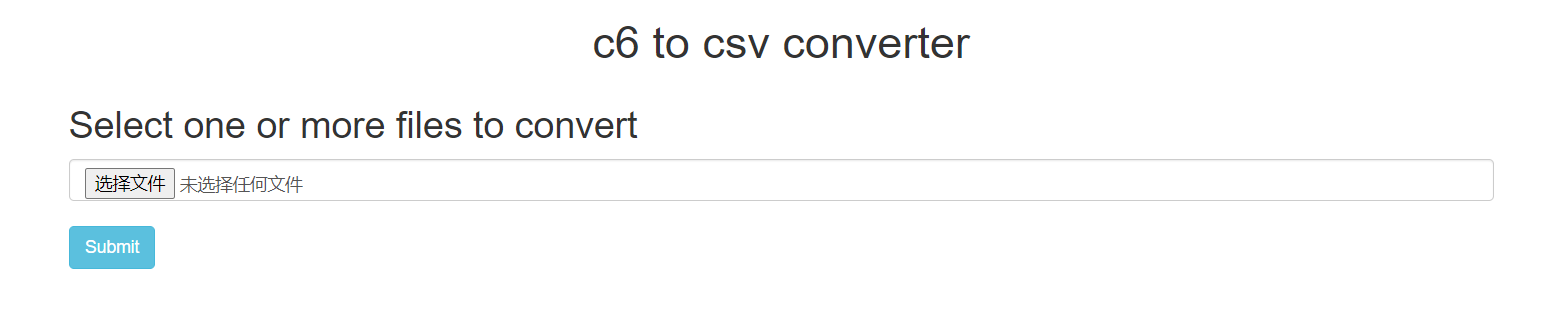
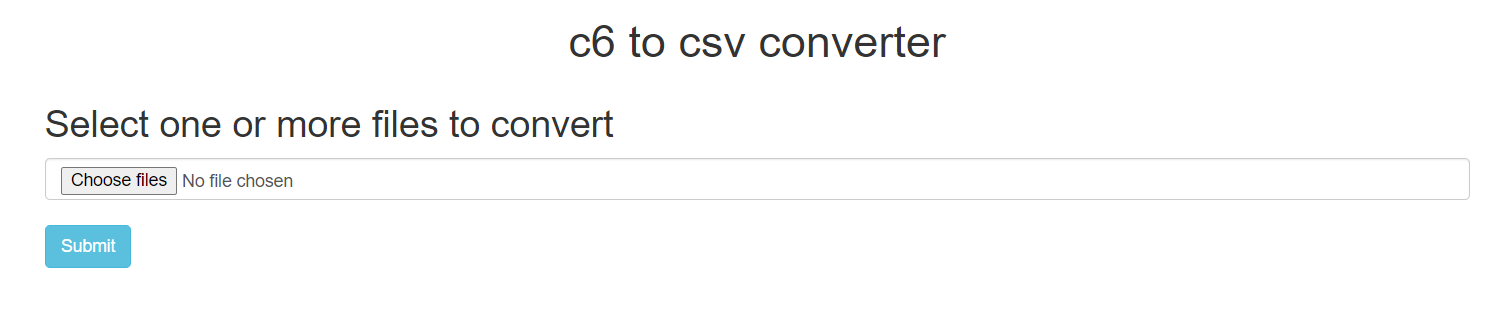
add ceotr images; add ceotr paragraph; font-family changes

Changed region(s): [[0.0311, 0.3123, 0.9649, 0.8517], [0.3735, 0.0568, 0.6225, 0.1987]]

diff --git a/src/routes/ceotr/+page.svelte b/src/routes/ceotr/+page.svelte
@@ -2,41 +2,40 @@
     import ProjectCard from "$lib/ProjectCard.svelte";
 
     import gliders from "$lib/assets/gliders.png";
+    import gliders1 from "$lib/assets/gliders-1.png";
+    import gliders2 from "$lib/assets/gliders-2.png";
+    import gliders3 from "$lib/assets/gliders-3.png";
+    import gliders4 from "$lib/assets/gliders-4.png";
+
     import c6 from "$lib/assets/c6.png";
-    import website from "$lib/assets/website.png";
+    import c61 from "$lib/assets/c6-1.png";
+
+    import web from "$lib/assets/web.png";
+    import web1 from "$lib/assets/web-1.png";
+    import web2 from "$lib/assets/web-2.png";
+    import web3 from "$lib/assets/web-3.png";
+
 </script>
 
 <div>
     <h1>CEOTR Projects</h1>
 
     <ProjectCard
-            title="Glider Website"
-            imgSet={[gliders,c6,website]}
-            description="Lorem ipsum dolor sit amet, consectetur adipiscing elit. Phasellus commodo hendrerit ipsum, ac porttitor ex
-        fermentum pharetra. Phasellus lobortis aliquam mauris. Quisque at interdum magna, sit amet mattis magna. Etiam
-        vel erat cursus, efficitur libero eget, vehicula arcu. Curabitur in nulla eleifend, placerat tortor vel, tempor
-        velit. Quisque mauris turpis, porttitor nec neque a, tempor suscipit dolor. Praesent laoreet est sed quam
-        rhoncus, quis suscipit nunc lobortis."
+            title="Glider Website (https://dev.ceotr.ca/gliders)"
+            imgSet={[gliders,gliders1,gliders2,gliders3,gliders4]}
+            description="The Glider Website is built by Svelte-kit and focus on visualizing and summarizing the data collected from gliders and displaying them on the map and the table. The main page comprises three parts: map, filter, and table. The map is a Leaflet component. It can show each mission's track and be distinguished by different colors. When the user hovers over the track,  the track will be highlighted and show summarized information. The table is sortable and shows detailed information. On the right side of the table, the eye button can control the show/hide for each track shown on the map, and the eye button on the table's header can simply show/hide all the tracks. The table is sorted by mission number by default, and the mission number is clickable. By clicking the mission number, the user will be directed to the individual mission page, which shows more detail. The filter bar can filter out the missions that the user wants. Select a tag (e.g. ID) and enter detail (e.g. ID that contains 44), and the filter option will display as a bubble. The map and table will reflect the changes by the filter's option."
     />
 
     <ProjectCard
-            title="C6 to CSV Converter"
-            imgSet=""
-            description="Lorem ipsum dolor sit amet, consectetur adipiscing elit. Phasellus commodo hendrerit ipsum, ac porttitor ex
-        fermentum pharetra. Phasellus lobortis aliquam mauris. Quisque at interdum magna, sit amet mattis magna. Etiam
-        vel erat cursus, efficitur libero eget, vehicula arcu. Curabitur in nulla eleifend, placerat tortor vel, tempor
-        velit. Quisque mauris turpis, porttitor nec neque a, tempor suscipit dolor. Praesent laoreet est sed quam
-        rhoncus, quis suscipit nunc lobortis."
+            title="C6 to CSV Converter (http://c6.ceotr.ca/)"
+            imgSet={[c6,c61]}
+            description="The C6 to CSV converter website is built by Flask, and the function is implemented by Python. The website can convert the C6 file (a file type output by lab instrument) to a CSV file. Include the technic like auto zip/unzip, table reformation, batch download, data sorting, file upload, etc."
     />
 
     <ProjectCard
-            title="MAPEL Website"
-            imgSet=""
-            description="Lorem ipsum dolor sit amet, consectetur adipiscing elit. Phasellus commodo hendrerit ipsum, ac porttitor ex
-        fermentum pharetra. Phasellus lobortis aliquam mauris. Quisque at interdum magna, sit amet mattis magna. Etiam
-        vel erat cursus, efficitur libero eget, vehicula arcu. Curabitur in nulla eleifend, placerat tortor vel, tempor
-        velit. Quisque mauris turpis, porttitor nec neque a, tempor suscipit dolor. Praesent laoreet est sed quam
-        rhoncus, quis suscipit nunc lobortis."
+            title="MAPEL Website (http://dev.mapel.ceotr.ca/)"
+            imgSet={[web,web1,web2,web3]}
+            description="The MAPEL website is built by WordPress. It is a blog website for the MAPEL group to post news and research articles and introduce their laboratory."
     />
 
 </div>

diff --git a/src/lib/ProjectCard.svelte b/src/lib/ProjectCard.svelte
@@ -68,6 +68,8 @@
         vertical-align: middle;
         margin: auto;
         width: 80%;
+        max-width: 60rem;
+        max-height: 30rem;
     }
 
     .btn {

diff --git a/static/global.css b/static/global.css
@@ -1,4 +1,10 @@
 body {
     width: 1200px;
     margin: 0 auto;
+
+    font-family: Arial, sans-serif;
+}
+
+p {
+  line-height: 1.5;
 }
